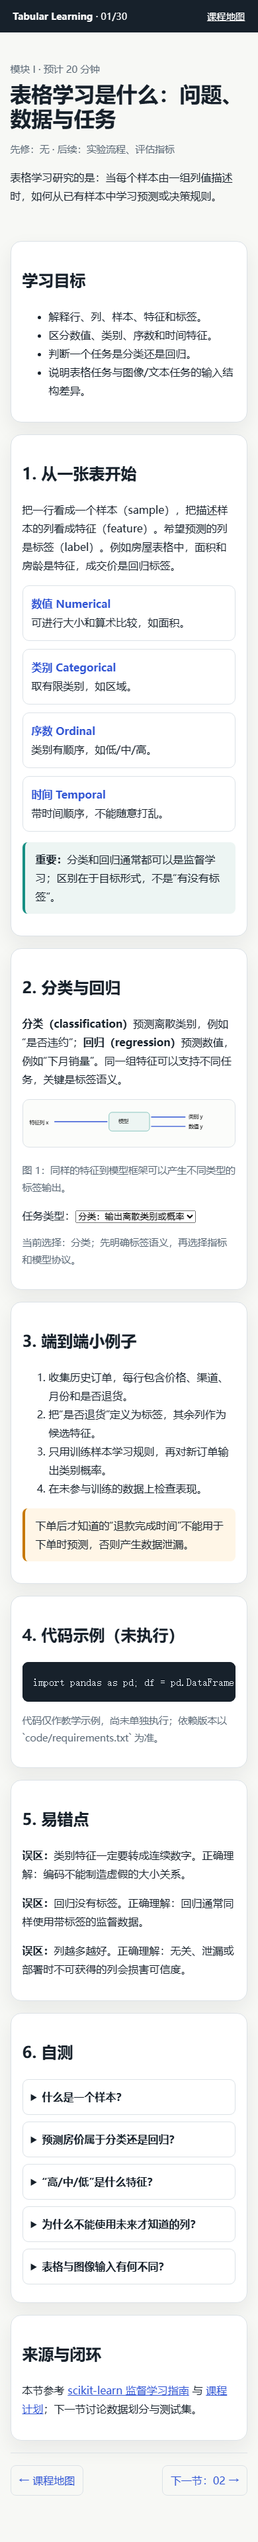
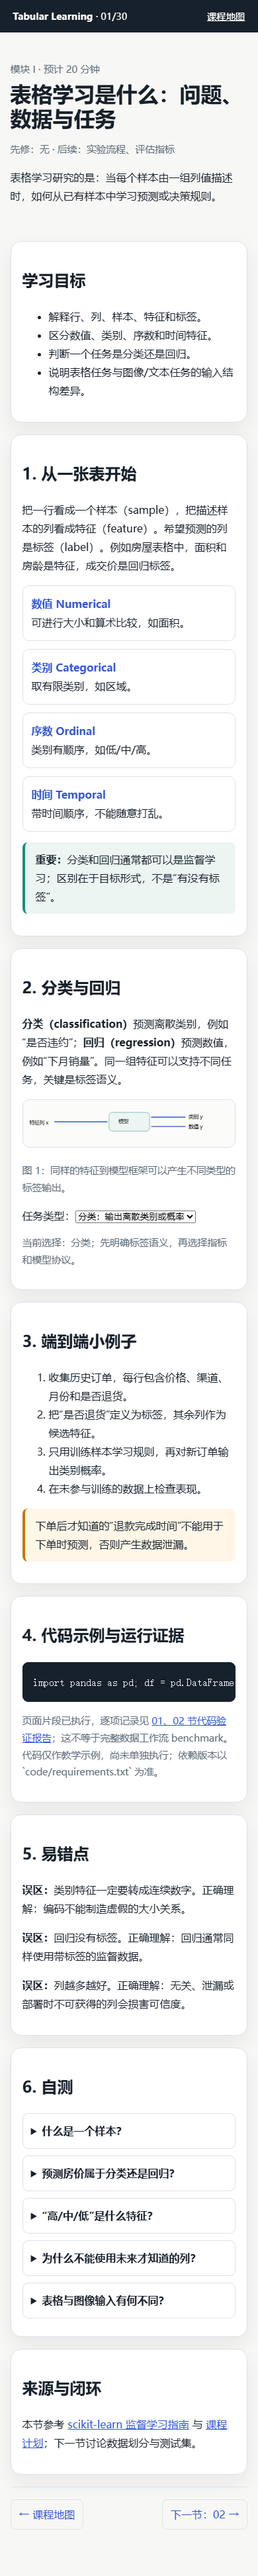
qa: record lessons 01 and 02 regression

Changed region(s): [[0.0308, 0.0, 0.9231, 0.9919], [0.8615, 0.124, 0.8923, 0.155], [0.2462, 0.9609, 0.2769, 0.9919]]

diff --git a/qa/final_audit.md b/qa/final_audit.md
@@ -7,14 +7,14 @@
 - 30 个独立 lesson HTML 已存在。
 - 30 份 lesson plan 和 30 份逐节 checklist 已存在。
 - index.html 已链接 30/30 个课件。
-- HTML 结构/本地链接审计通过：31 个页面、223 个本地链接；30 节课件均含外部可核验来源，且已纳入审计硬门禁。最新完整自动重跑见 `reports/final_validation_run_2026-10-10.md`。
+- HTML 结构/本地链接审计通过：31 个页面、225 个本地链接；30 节课件均含外部可核验来源，且已纳入审计硬门禁。最新完整自动重跑见 `reports/final_validation_run_2026-10-10.md`。
 - 30 份 lesson plan 与 30 个 HTML 页面已通过跨章节对应审计。
 - 30 节页面与计划已通过最低内容深度结构审计；教学准确性仍需逐句人工核验。
 - 基础 sklearn、树模型、XGBoost、CatBoost、MLP 和校准 smoke test 有运行记录。
 - 研究计划、事实矩阵、参考文献、版本记录和开放问题已建立。
 - R05 PFN 原始论文链接已核正为 arXiv:2112.10510，并保存复核记录 `reports/core_fact_verification_2026-10-10.md`；外链审计重跑通过。
 - TabPFN 官方 Models/README 的版本、行列、类别、CPU 提示和许可边界已追加日期化证据；这些页面事实仍不替代本机 checkpoint 实测。
-- 已生成逐课来源清单：30 个课件、36 个外部链接引用、164 个本地来源链接；该清单明确不替代语义事实核验。
+- 已生成逐课来源清单：30 个课件、36 个外部链接引用、166 个本地来源链接；该清单明确不替代语义事实核验。
 - 已保存 `reports/paper_claim_verification_2026-10-10.md` 及 XGBoost、CatBoost、FT-Transformer 补充核验报告：主要论文机制已到章节/官方文档级，当前库行为、官方实现运行和逐课事实终审仍单独保留为缺口。
 - 已完成全课程桌面/移动截图捕获与缩略图复核，并保留入口页与第 05 节人工视觉记录；全课程截图证据仍不扩展为逐像素、屏幕阅读器或跨内核视觉认证。
 - 已让 Edge smoke test 保存 30 个课件的 390px 布局测量记录；该记录只证明自动化页面宽度断言，不替代人工逐页视觉和屏幕阅读器审查。

diff --git a/PROJECT_STATUS.md b/PROJECT_STATUS.md
@@ -57,7 +57,7 @@
 - 完成 Playwright 三引擎跨浏览器自动 smoke test：Chromium、Firefox、WebKit 覆盖 30 节课件的桌面/移动共 180/180 路径通过；仍不替代真实屏幕阅读器、逐像素人工视觉复核或独立 axe/pa11y 审计，详见 `reports/cross_browser_smoke_2026-10-10.md` 与 `reports/environment_capability_check_2026-10-10.md`。
 - 重新复核默认 Python 环境：可发现 TabPFN 包但 PyTorch `c10.dll` 导入失败；未下载权重、接受许可或生成预测，详见 `reports/tabpfn_environment_recheck_2026-10-10.md`。
 - 对照总控 Prompt 复核发现第 03、06 节基础知识覆盖不足，已补齐 ROC-AUC/Log Loss/RMSE/R²、阈值滑块、Gini/熵/信息增益公式和回归 SSE 案例；证据见 `reports/lesson_03_06_content_revision_2026-10-10.md`。
-- 第 23 节修订后的回归门禁通过：30/30 lesson、31 页、217 个本地链接、36 个外部来源，三引擎桌面/移动 180/180 路径通过；最新汇总见 `reports/final_validation_run_2026-10-10.md`。
+- 第 01、02、23 节修订后的回归门禁通过：30/30 lesson、31 页、225 个本地链接、36 个外部来源，三引擎桌面/移动 180/180 路径通过；最新汇总见 `reports/final_validation_run_2026-10-10.md`。
 - 执行第 04、06–10 节页面 API 代码路径：DummyClassifier、DecisionTree、RandomForest OOB、GBDT、XGBoost 和 CatBoost 共 6/6 通过；CatBoost 原始运行日志保留于 `reports/intermediates/`，结果见 `reports/lesson_04_10_code_examples_2026-10-10.md`。
 - 执行第 01、02 节页面代码路径：DataFrame 与 `SimpleImputer + LogisticRegression` 管道共 2/2 通过；记录了 pandas 3.0.6 字符串 dtype 的实际表现，详见 `reports/lesson_01_02_code_examples_2026-10-10.md`。
 - 已补齐第 02、04、07、08、10、22 节计划中的泄漏/复杂度/树数量/提升轮数/排列前缀/校准分箱示意控件，并通过全课程交互与可访问性审计；来源复核见 `reports/metrics_tree_claim_verification_2026-10-10.md`。

diff --git a/reports/lesson_source_inventory_2026-10-10.md b/reports/lesson_source_inventory_2026-10-10.md
@@ -4,8 +4,8 @@
 
 | 课件 | 外部来源数 | 本地来源数 | 外部来源 |
 |---|---:|---:|---|
-| `01_tabular_learning_intro.html` | 1 | 4 | `https://scikit-learn.org/stable/supervised_learning.html` |
-| `02_ml_workflow.html` | 1 | 4 | `https://scikit-learn.org/stable/common_pitfalls.html` |
+| `01_tabular_learning_intro.html` | 1 | 5 | `https://scikit-learn.org/stable/supervised_learning.html` |
+| `02_ml_workflow.html` | 1 | 5 | `https://scikit-learn.org/stable/common_pitfalls.html` |
 | `03_metrics.html` | 1 | 6 | `https://scikit-learn.org/stable/modules/model_evaluation.html` |
 | `04_bias_variance.html` | 1 | 5 | `https://scikit-learn.org/stable/modules/cross_validation.html` |
 | `05_decision_trees.html` | 1 | 6 | `https://scikit-learn.org/stable/modules/tree.html` |
@@ -35,7 +35,7 @@
 | `29_capstone.html` | 1 | 6 | `https://github.com/PriorLabs/TabPFN` |
 | `30_synthesis.html` | 1 | 7 | `https://scikit-learn.org/stable/modules/model_evaluation.html` |
 
-合计：30 个课件，36 个外部链接，164 个本地链接。
+合计：30 个课件，36 个外部链接，166 个本地链接。
 
 ## 判定
 

diff --git a/reports/final_validation_run_2026-10-10.md b/reports/final_validation_run_2026-10-10.md
@@ -7,11 +7,11 @@
 ```text
 audit_lessons.py                         PASS (30 lessons, index links 30/30)
 lesson_01_02_code_examples.py             PASS (2/2 page code paths)
-check_html_structure.py                   PASS (31 pages, 223 local links)
+check_html_structure.py                   PASS (31 pages, 225 local links)
 cross_lesson_audit.py                    PASS (30 plans linked to 30 pages)
 content_depth_audit.py                   PASS (30 pages and plans)
 accessibility_audit.py                   PASS (31 pages)
-source_inventory.py                      PASS (30 lessons, 36 external, 164 local source links)
+source_inventory.py                      PASS (30 lessons, 36 external, 166 local source links)
 citation_consistency_audit.py            PASS (30 lessons, 3 manual-review warnings retained)
 browser_interaction_audit.py             PASS (30 lessons)
 ax_tree_course_audit.py                  PASS (30 lessons)

diff --git a/reports/citation_consistency_2026-10-10.md b/reports/citation_consistency_2026-10-10.md
@@ -4,8 +4,8 @@
 
 | 课次 | 计划 R ID | 页面 R ID | 外部链接 | 本地链接 | 有边界提示 |
 |---:|---:|---:|---:|---:|---|
-| 01 | 0 | 0 | 1 | 4 | 有 |
-| 02 | 0 | 0 | 1 | 4 | 有 |
+| 01 | 0 | 0 | 1 | 5 | 有 |
+| 02 | 0 | 0 | 1 | 5 | 有 |
 | 03 | 0 | 0 | 1 | 6 | 有 |
 | 04 | 0 | 0 | 1 | 5 | 有 |
 | 05 | 0 | 0 | 1 | 6 | 有 |
